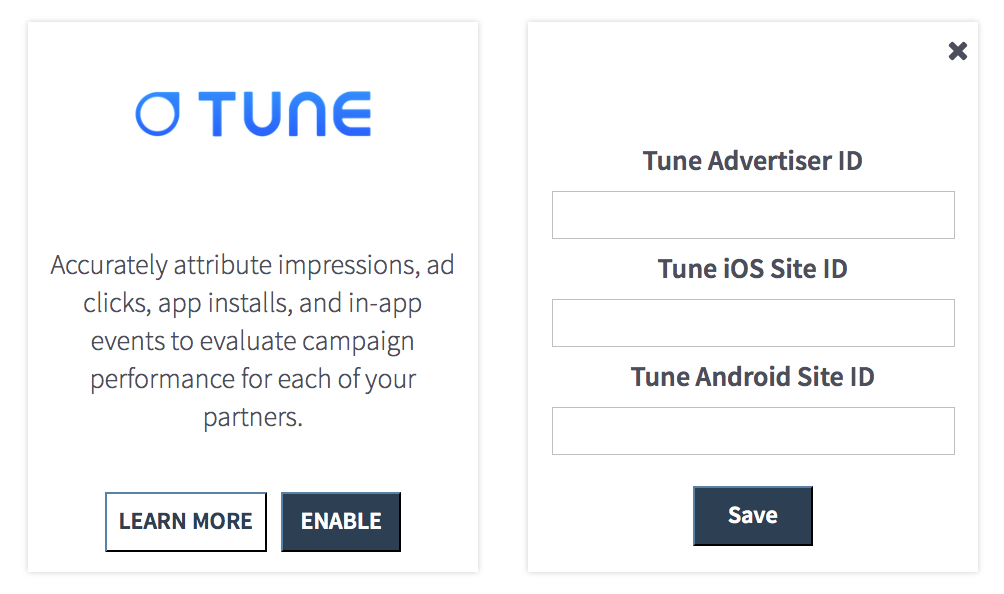
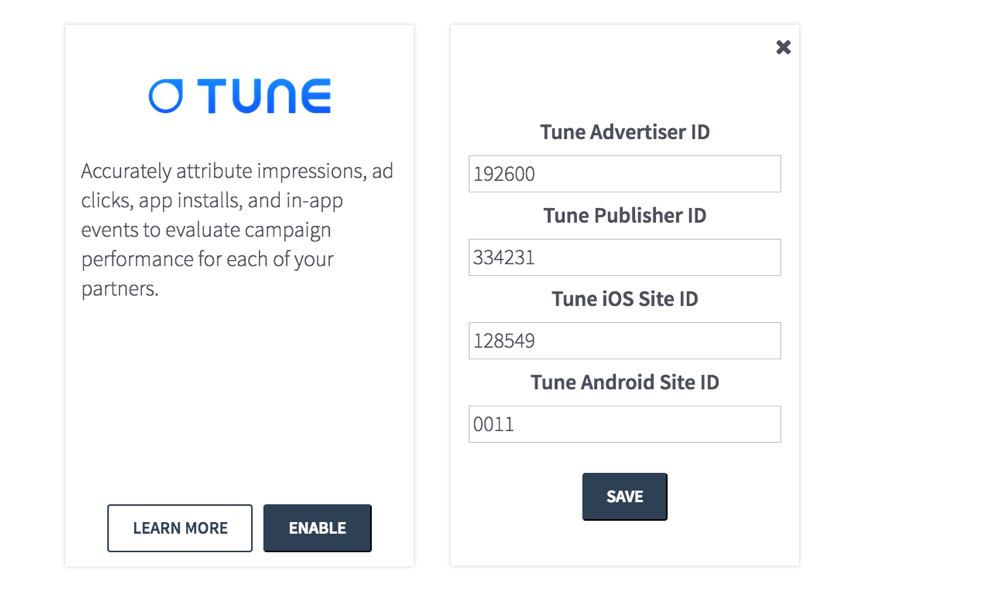
add new publisher id info

diff --git a/pages/third-party-integrations/tune.md b/pages/third-party-integrations/tune.md
@@ -44,7 +44,7 @@ See your Branch organic acquition campaigns alongside your Tune data. You can al
 
 ## Get credentials from your Tune dashboard
 
-To set up the integration, you will need your Tune Advertiser ID (an account-level identifer) and your platform-specific Tune Site IDs (also known as App IDs).
+To set up the integration, you will need your **Tune Advertiser ID** (an account-level identifer), your platform-specific Tune **Site IDs** (also known as App IDs) and a Tune **Publisher ID** for Branch. 
 
 You can find your **Advertiser ID** by navigating to "Accounts > Advertiser Account" in the left hand sidebar and finding the Advertiser ID in the Account Details.
 
@@ -54,12 +54,22 @@ You can find your **Site ID** by navigating to "Mobile Apps" in the left hand si
 
 {% image src="/img/pages/third-party-integrations/tune/tune-app-ids.png" 3-quarters center %}
 
+To find Branch's **Publisher ID**, set up Branch as an [Integrated Partner](https://help.tune.com/marketing-console/setting-up-an-integrated-advertising-partner/#1-enable-the-advertising-partner-integration) and find the Publisher ID:
+
+1. Log in to Attribution Analytics.
+1. In the navigation (on the left side), under the Partners section, click Integrations.
+1. On the Integrated Partners page (on the right side), search for Branch.
+1. After finding Branch, click Enable (in the far-right column).
+1. Click on the Branch logo, then click on the "Attribution Settings" tab and copy the Partner ID (also known as the Branch Publisher ID). 
+
+{% image src="/img/pages/third-party-integrations/tune/tune-branch-partner-id.png" half center alt='Branch Partner ID' %}
+
 ## Enable the Tune card in your Branch dashboard
 
 1. On the Branch Dashboard (dashboard.branch.io), navigate to the [Integrations page](https://dashboard.branch.io/integrations).
 1. Locate Tune and choose **Enable**.
   * If you have not yet entered billing information, please do so now.
-1. Enter your Tune Advertiser ID and platform-specific Tune Site ID
+1. Enter your Branch Partner ID, Tune Advertiser ID and your platform-specific Tune Site IDs.
 1. Hit **Save**.
 
 {% image src="/img/pages/third-party-integrations/tune/enable-tune-integration.png" half center alt='Enable Integration' %}
